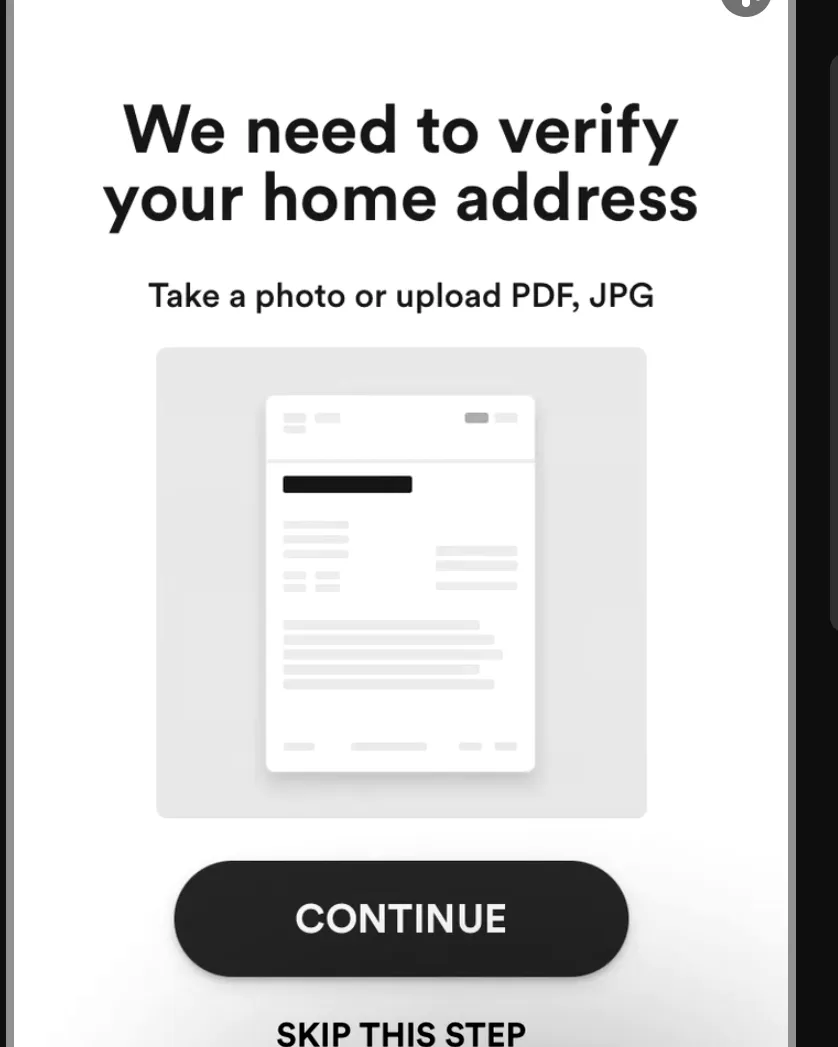
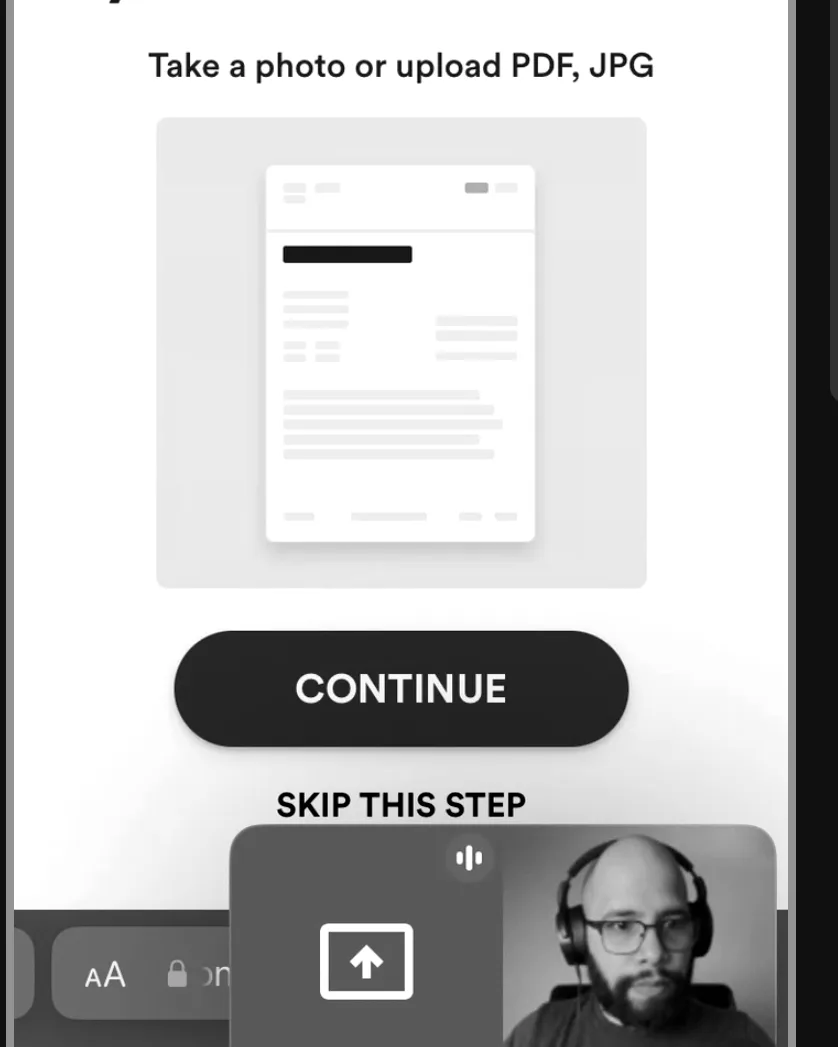
chore(home): usability-test slide shows Carlos's video tile; crop ends above the participant-name row so no third-party name ships

diff --git a/src/i18n/ui.ts b/src/i18n/ui.ts
@@ -60,7 +60,7 @@ const en = {
     cta: "Meet the studio",
     slideAlts: [
       "The team working through a product session at the table, with more teammates joining on a video call",
-      "A remote usability test of a KYC address-verification step, run with a user on a video call",
+      "Carlos running a remote usability test of a KYC address-verification step on a video call",
       "Reviewing an email design for Stori's Inversión Crece+ launch",
     ],
     imageAlt: "A working session: a conversion funnel sketched on the whiteboard — landing views, CTA and conversion by step — while a teammate works on a laptop",
@@ -669,7 +669,7 @@ const es: UI = {
     cta: "Conoce el estudio",
     slideAlts: [
       "El equipo trabajando una sesión de producto en la mesa, con más integrantes conectados por videollamada",
-      "Una prueba de usabilidad remota del paso de verificación de domicilio (KYC), con un usuario en videollamada",
+      "Carlos conduciendo una prueba de usabilidad remota del paso de verificación de domicilio (KYC) por videollamada",
       "Revisión del diseño de un email para el lanzamiento de Inversión Crece+ de Stori",
     ],
     imageAlt: "Una sesión de trabajo: un embudo de conversión dibujado en el pizarrón — vistas del landing, CTA y conversión por paso — mientras alguien del equipo trabaja en su laptop",
